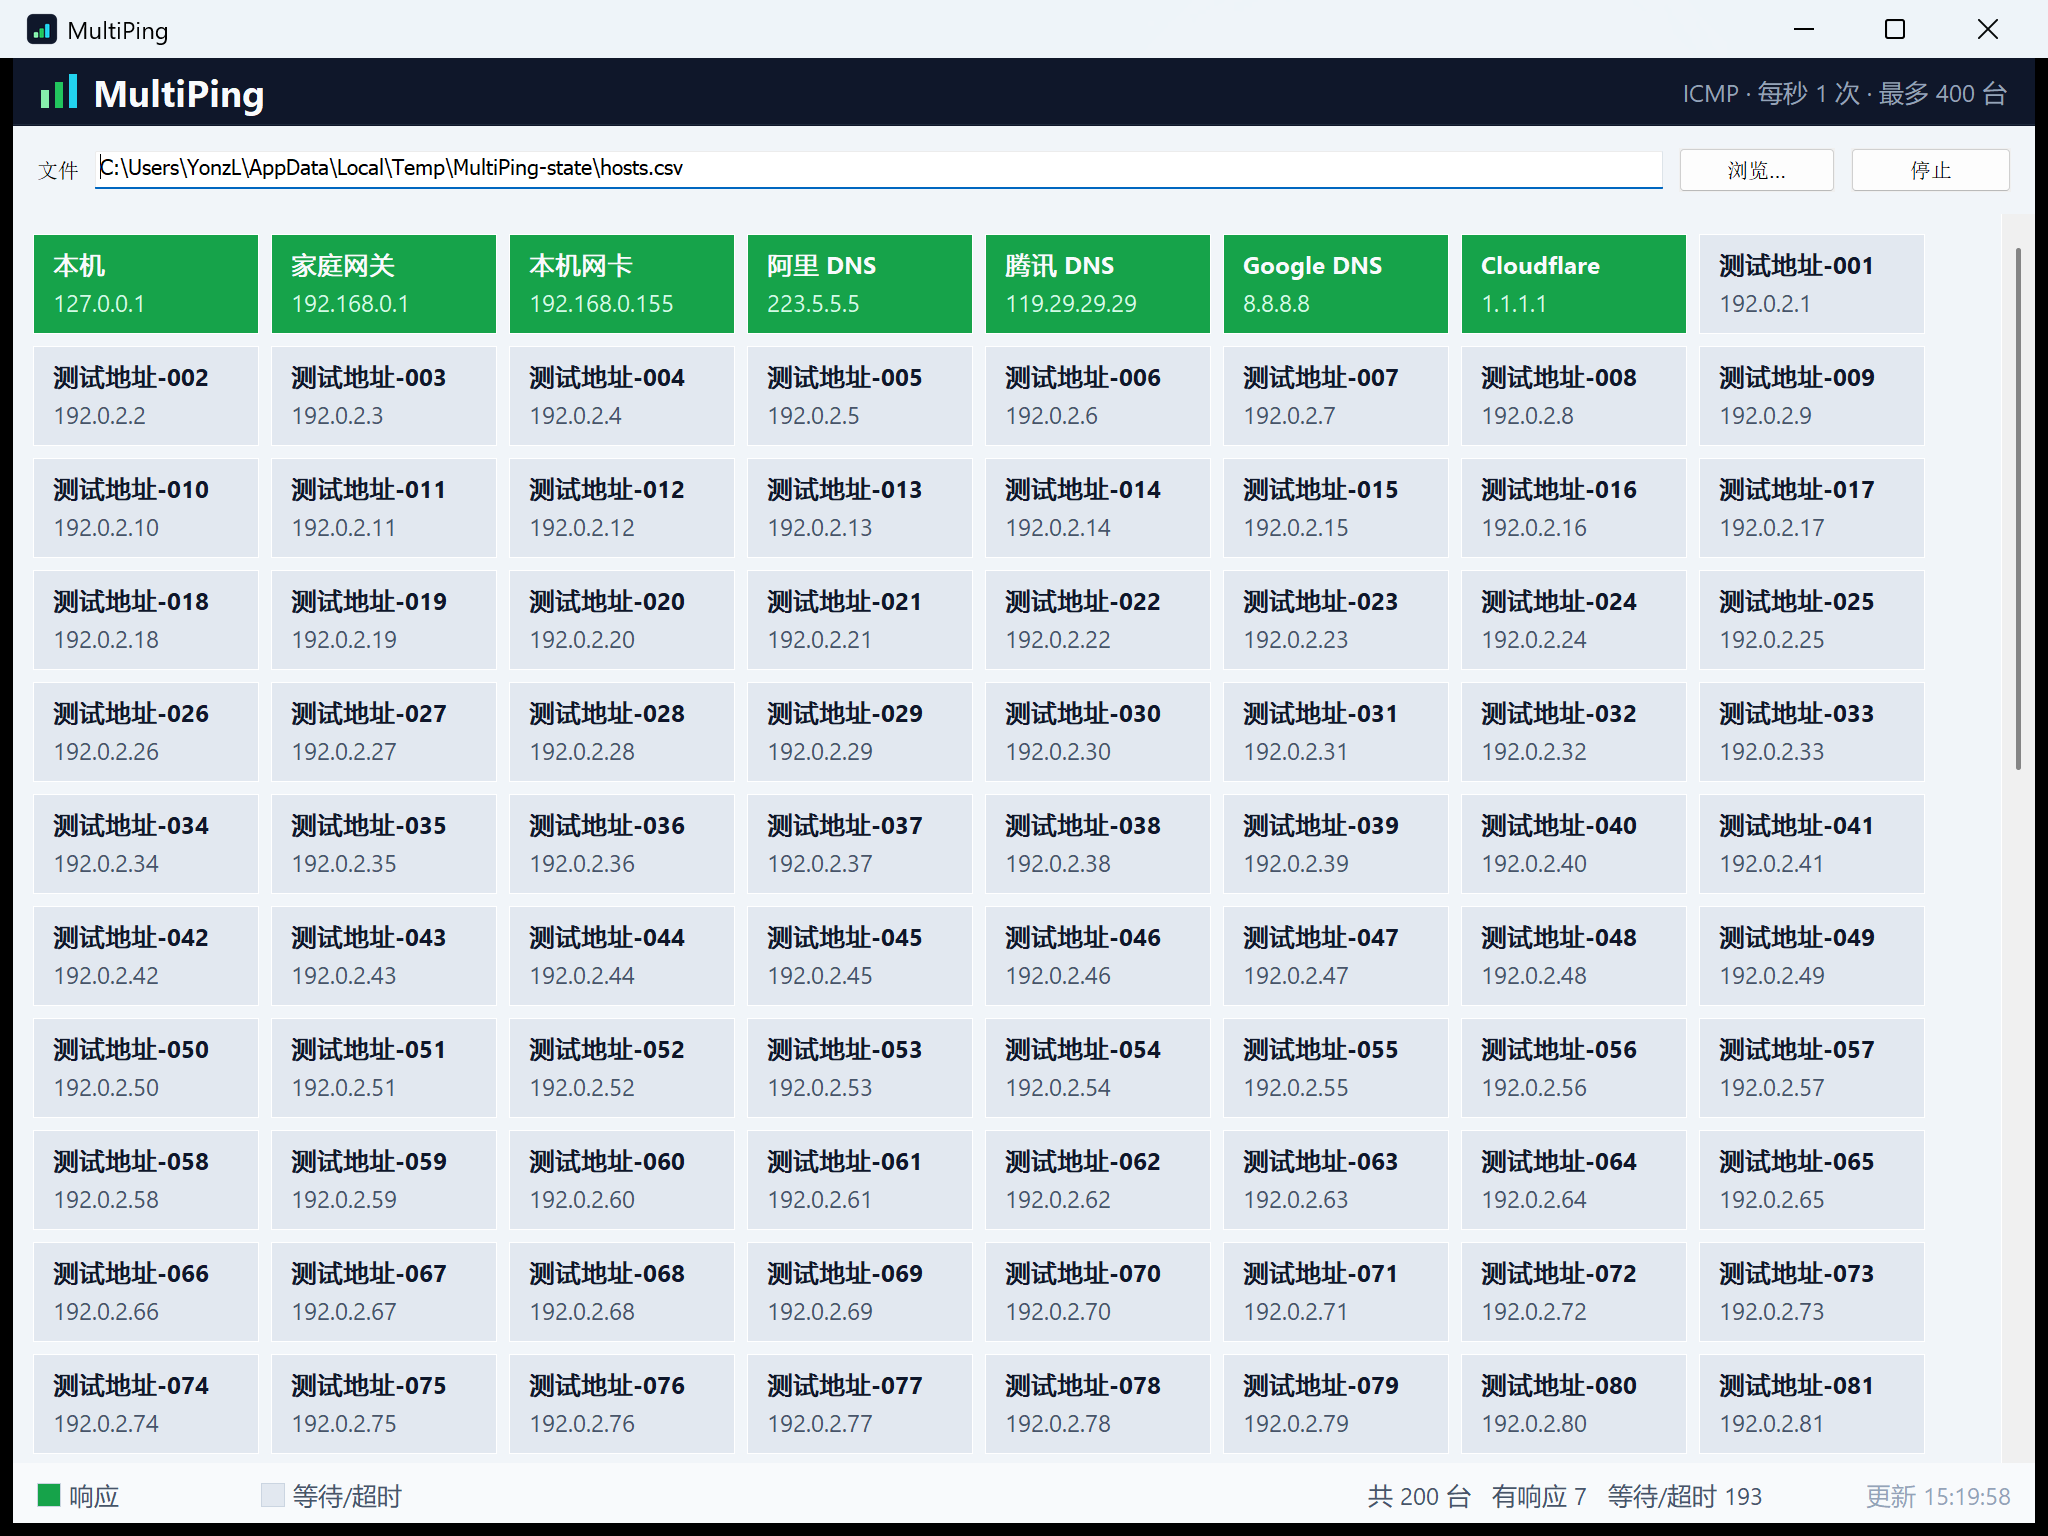
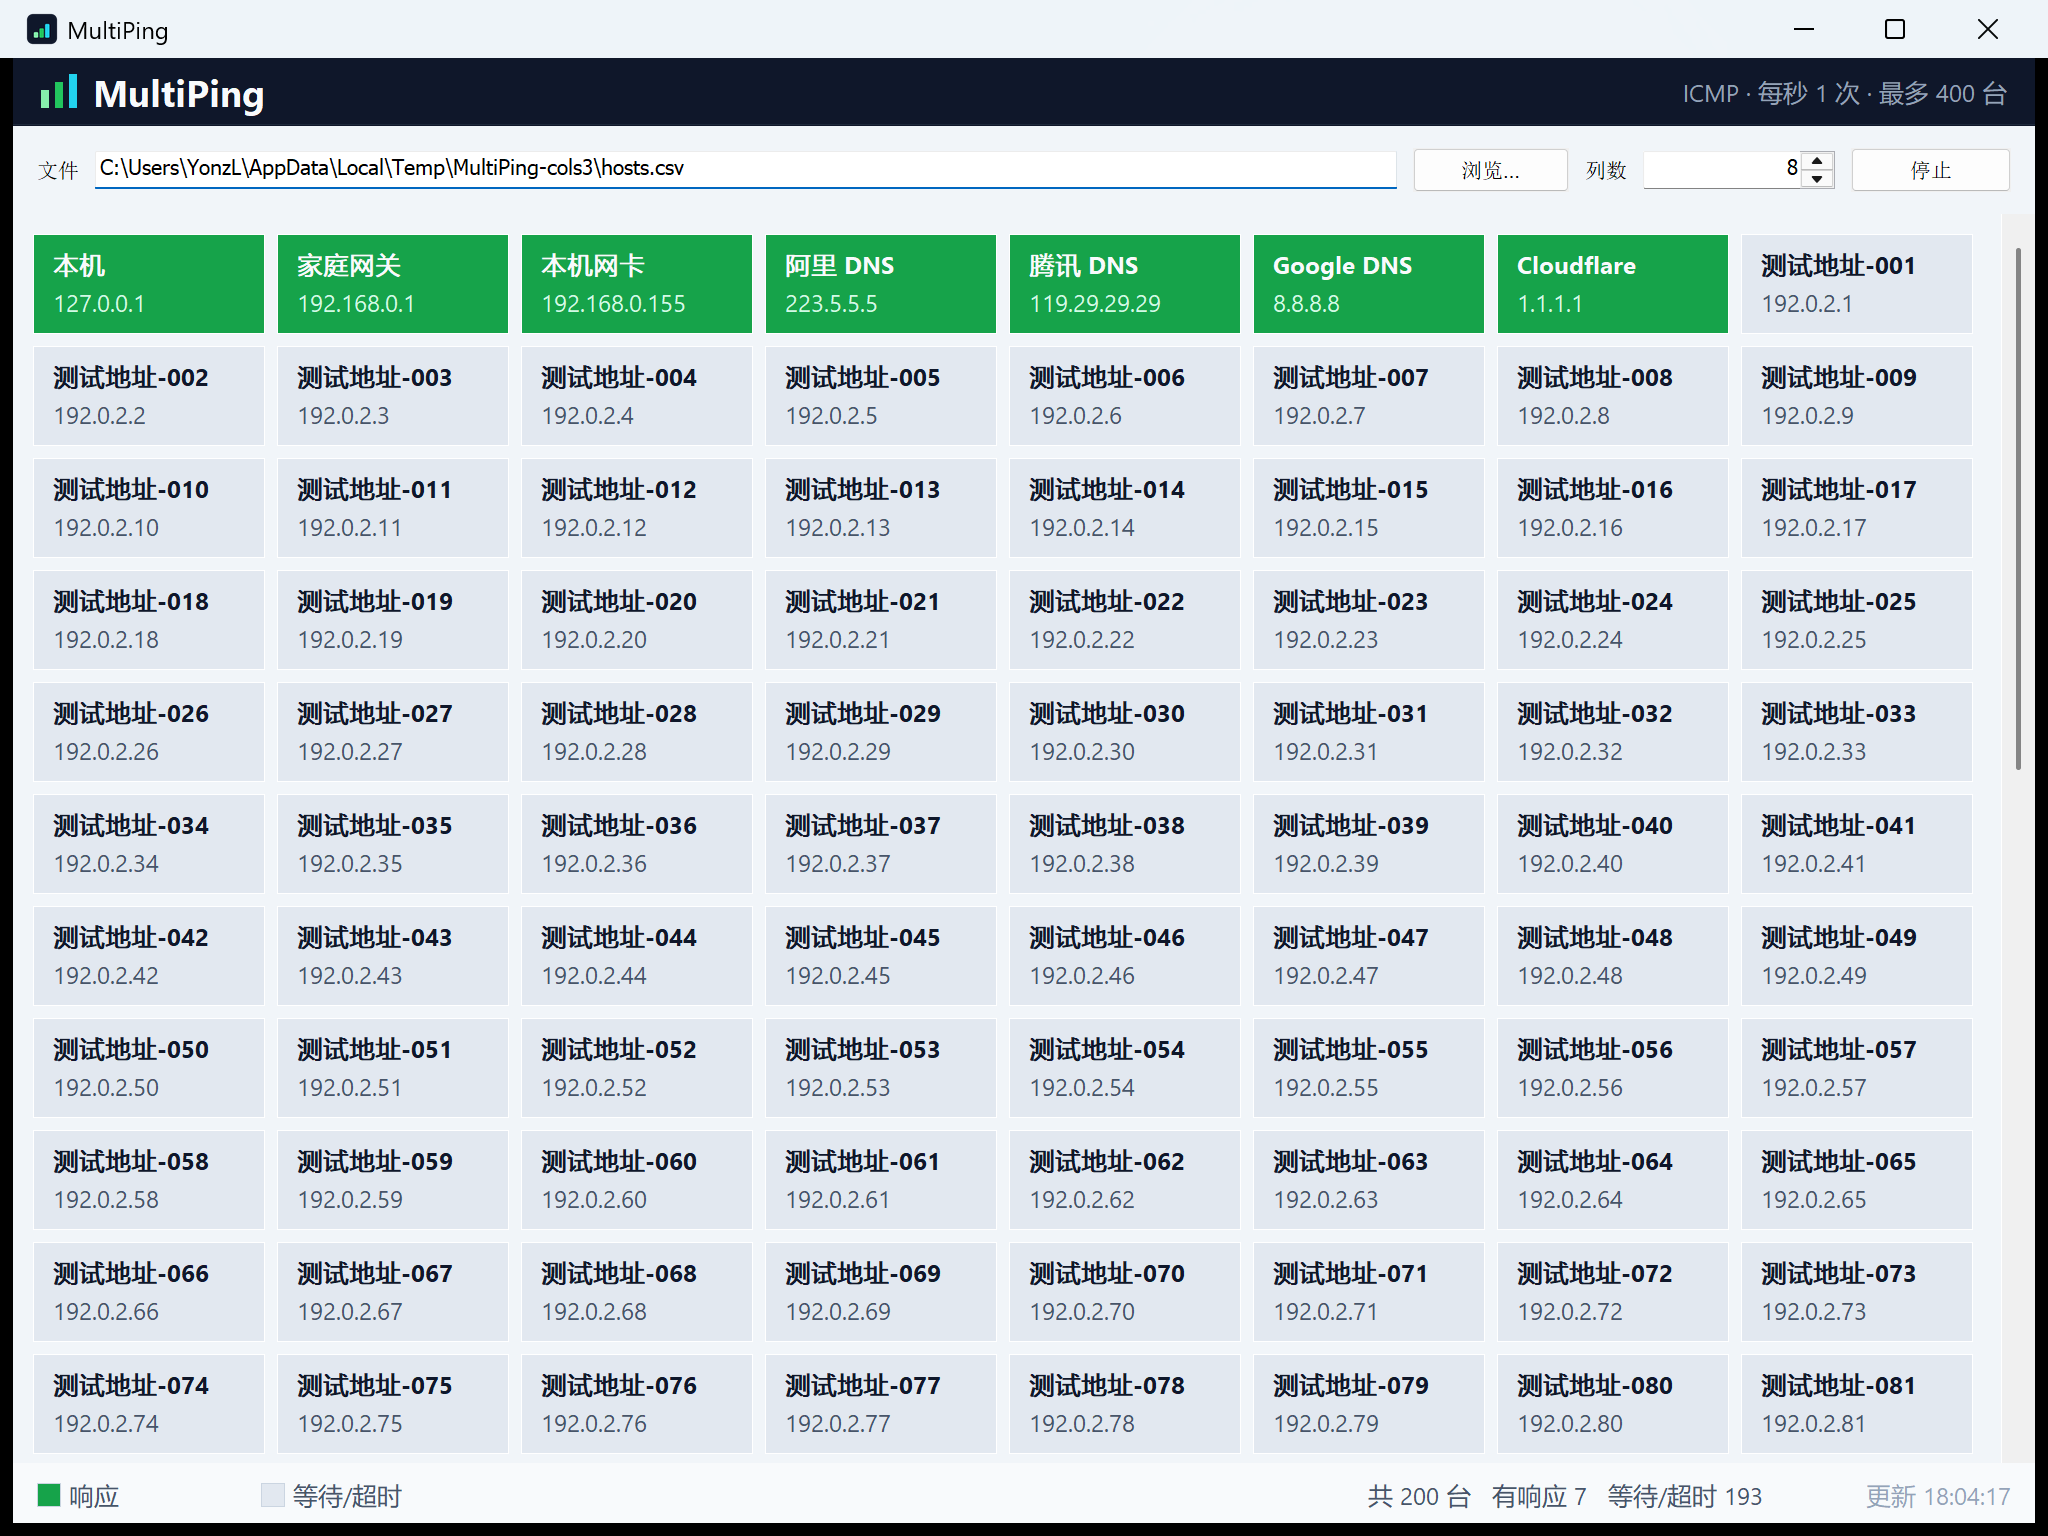
Add configurable column count and mouse wheel scrolling

diff --git a/src/grid.go b/src/grid.go
@@ -6,16 +6,18 @@ import (
 	"time"
 
 	"github.com/lxn/walk"
+	"github.com/lxn/win"
 )
 
 const (
-	gridColumns      = 8
-	cardWidthDefault = 116
-	cardWidthMin     = 72
-	cardWidthMax     = 220
-	cardHeight       = 50
-	cardGap          = 6
-	gridMargin       = 10
+	gridColumnsDefault = 8
+	gridColumnsMin     = 1
+	gridColumnsMax     = 9
+	cardWidthDefault   = 116
+	cardWidthMin       = 72
+	cardHeight         = 50
+	cardGap            = 6
+	gridMargin         = 10
 )
 
 var (
@@ -34,7 +36,9 @@ type gridWidget struct {
 	mu             sync.RWMutex
 	hosts          []*Host
 	paused         bool
+	columns        int
 	cardWidth      int
+	scroll         *walk.ScrollView
 	repaintPending bool
 	closed         atomic.Bool
 
@@ -48,7 +52,7 @@ type gridWidget struct {
 }
 
 func newGridWidget(parent walk.Container) (*gridWidget, error) {
-	g := &gridWidget{cardWidth: cardWidthDefault}
+	g := &gridWidget{cardWidth: cardWidthDefault, columns: gridColumnsDefault}
 	cw, err := walk.NewCustomWidget(parent, 0, g.paint)
 	if err != nil {
 		return nil, err
@@ -63,6 +67,14 @@ func newGridWidget(parent walk.Container) (*gridWidget, error) {
 	if err := cw.SetAlignment(walk.AlignHNearVNear); err != nil {
 		return nil, err
 	}
+	cw.MouseWheel().Attach(func(x, y int, button walk.MouseButton) {
+		if g.scroll == nil {
+			return
+		}
+		// The custom-painted grid is a child of the ScrollView, so the wheel
+		// message would otherwise stop here instead of scrolling the page.
+		win.PostMessage(g.scroll.Handle(), win.WM_MOUSEWHEEL, uintptr(uint32(int32(button))), 0)
+	})
 
 	g.fontName = makeFont(parent, 9, walk.FontBold)
 	g.fontSmall = makeFont(parent, 9, 0)
@@ -94,39 +106,69 @@ func makeFont(parent walk.Container, size int, style walk.FontStyle) *walk.Font 
 
 func (g *gridWidget) setSizeFor(hostCount int) {
 	width := g.cardWidthSnapshot()
+	cols := g.columnsSnapshot()
 	var size walk.Size
 	if hostCount <= 0 {
 		size = walk.Size{
-			Width:  gridMargin*2 + gridColumns*width + (gridColumns-1)*cardGap,
+			Width:  gridMargin*2 + cols*width + (cols-1)*cardGap,
 			Height: 320,
 		}
 	} else {
-		rows := (hostCount + gridColumns - 1) / gridColumns
+		rows := (hostCount + cols - 1) / cols
 		size = walk.Size{
-			Width:  gridMargin*2 + gridColumns*width + (gridColumns-1)*cardGap,
+			Width:  gridMargin*2 + cols*width + (cols-1)*cardGap,
 			Height: gridMargin*2 + rows*cardHeight + (rows-1)*cardGap,
 		}
 	}
 	// Let the window shrink to the 720px minimum even though the cards are
 	// currently laid out for the initial 1024px width; SetAvailableWidth then
 	// computes narrower cards for the new viewport.
-	minWidth := gridMargin*2 + gridColumns*cardWidthMin + (gridColumns-1)*cardGap
+	minWidth := gridMargin*2 + cols*cardWidthMin + (cols-1)*cardGap
 	_ = g.SetMinMaxSize(walk.Size{Width: minWidth, Height: size.Height}, size)
 }
 
-// SetAvailableWidth recalculates the card width so the nine columns fill the
-// available viewport. The grid itself keeps a fixed pixel size for the
-// ScrollView content; it changes only when the window is resized.
+func (g *gridWidget) SetScrollView(sv *walk.ScrollView) {
+	g.scroll = sv
+}
+
+// SetColumns changes the grid density (1-9 cards per row). The card width is
+// recalculated from the current viewport by the caller after this returns.
+func (g *gridWidget) SetColumns(columns int) {
+	if columns < gridColumnsMin {
+		columns = gridColumnsMin
+	}
+	if columns > gridColumnsMax {
+		columns = gridColumnsMax
+	}
+	g.mu.Lock()
+	if g.columns == columns {
+		g.mu.Unlock()
+		return
+	}
+	g.columns = columns
+	hostCount := len(g.hosts)
+	g.mu.Unlock()
+	g.setSizeFor(hostCount)
+	_ = g.Invalidate()
+}
+
+func (g *gridWidget) columnsSnapshot() int {
+	g.mu.RLock()
+	defer g.mu.RUnlock()
+	return g.columns
+}
+
+// SetAvailableWidth recalculates the card width so the current number of
+// columns fills the available viewport. The grid itself keeps a fixed pixel
+// size for the ScrollView content; it changes only when the window is resized.
 func (g *gridWidget) SetAvailableWidth(available int) {
 	if available < 600 {
 		return
 	}
-	width := (available - 2*gridMargin - (gridColumns-1)*cardGap) / gridColumns
+	cols := g.columnsSnapshot()
+	width := (available - 2*gridMargin - (cols-1)*cardGap) / cols
 	if width < cardWidthMin {
 		width = cardWidthMin
-	}
-	if width > cardWidthMax {
-		width = cardWidthMax
 	}
 
 	g.mu.Lock()
@@ -231,7 +273,7 @@ func (g *gridWidget) paint(canvas *walk.Canvas, update walk.Rectangle) error {
 	width := g.cardWidthSnapshot()
 
 	for i, h := range hosts {
-		g.paintCard(canvas, cardRect(i, width), h, paused)
+		g.paintCard(canvas, g.cardRect(i, width), h, paused)
 	}
 	return nil
 }
@@ -278,9 +320,10 @@ func (g *gridWidget) paintCard(canvas *walk.Canvas, rect walk.Rectangle, h *Host
 		walk.TextLeft|walk.TextVCenter|walk.TextSingleLine|walk.TextEndEllipsis)
 }
 
-func cardRect(index, width int) walk.Rectangle {
-	col := index % gridColumns
-	row := index / gridColumns
+func (g *gridWidget) cardRect(index, width int) walk.Rectangle {
+	cols := g.columnsSnapshot()
+	col := index % cols
+	row := index / cols
 	return walk.Rectangle{
 		X:      gridMargin + col*(width+cardGap),
 		Y:      gridMargin + row*(cardHeight+cardGap),

diff --git a/src/main.go b/src/main.go
@@ -36,6 +36,7 @@ func (s *pollSession) stop() {
 type app struct {
 	mw        *walk.MainWindow
 	pathEdit  *walk.LineEdit
+	columns   *walk.NumberEdit
 	toggleBtn *walk.PushButton
 	grid      *gridWidget
 	status    *statusWidget
@@ -59,7 +60,7 @@ func main() {
 
 	a.mw.Show()
 	fitWindowToWorkArea(a.mw)
-	a.grid.SetAvailableWidth(a.mw.ClientBounds().Width - 44)
+	a.grid.SetAvailableWidth(a.mw.ClientBounds().Width - 20)
 
 	defaultPath := defaultHostsPath()
 	_ = a.pathEdit.SetText(defaultPath)
@@ -149,6 +150,28 @@ func (a *app) build() error {
 	_ = browseBtn.SetMinMaxSize(walk.Size{Width: 78, Height: 30}, walk.Size{Width: 78, Height: 30})
 	browseBtn.Clicked().Attach(func() { a.browse() })
 
+	columnsLabel, err := walk.NewLabel(toolbar)
+	if err != nil {
+		return err
+	}
+	columnsLabel.SetText("列数")
+
+	a.columns, err = walk.NewNumberEdit(toolbar)
+	if err != nil {
+		return err
+	}
+	a.columns.SetRange(gridColumnsMin, gridColumnsMax)
+	a.columns.SetDecimals(0)
+	a.columns.SetIncrement(1)
+	a.columns.SetValue(gridColumnsDefault)
+
+	a.columns.SetSpinButtonsVisible(true)
+	_ = a.columns.SetMinMaxSize(walk.Size{Width: 96, Height: 30}, walk.Size{Width: 96, Height: 30})
+	a.columns.ValueChanged().Attach(func() {
+		a.grid.SetColumns(int(a.columns.Value()))
+		a.grid.SetAvailableWidth(a.mw.ClientBounds().Width - 20)
+	})
+
 	a.toggleBtn, err = walk.NewPushButton(toolbar)
 	if err != nil {
 		return err
@@ -208,8 +231,9 @@ func (a *app) build() error {
 	if err != nil {
 		return err
 	}
+	a.grid.SetScrollView(sv)
 	mw.SizeChanged().Attach(func() {
-		a.grid.SetAvailableWidth(mw.ClientBounds().Width - 44)
+		a.grid.SetAvailableWidth(mw.ClientBounds().Width - 20)
 	})
 
 	a.status, err = newStatusWidget(mw)

diff --git a/README.md b/README.md
@@ -22,10 +22,11 @@ MultiPing/
 ## 功能
 
 - 启动时自动加载 exe 同级的 `hosts.csv`，也可以点“浏览…”选择其他 CSV。
-- 每行 8 台主机，按从左到右、从上到下的顺序排列；最多加载 400 台，超出部分忽略。
-  主机较多时网格可滚动。
-- 卡片宽度采用相对布局：始终让 8 列填满窗口可用宽度，窗口变宽/变窄时自动伸缩；
+- 默认每行 8 台主机，可通过工具栏“列数”在 1–9 之间调整；按从左到右、从上到下的顺序排列。
+  最多加载 400 台，超出部分忽略。
+- 卡片宽度采用相对布局：当前列数始终填满窗口可用宽度，窗口变宽/变窄时自动伸缩；
   窗口最小宽度 720。
+- 网格区域支持鼠标滚轮上下滚动；主机较多时也可拖动右侧滚动条。
 - 卡片高度 50，文字只保留两行（名称、IP）。
 - 每台主机独立计时，**每秒发送 1 次 ICMP Echo**；单次超时 1 秒。
 - 每次收到响应，卡片变为绿色 `#16A34A` 并**保持到下一次探测结果**；
